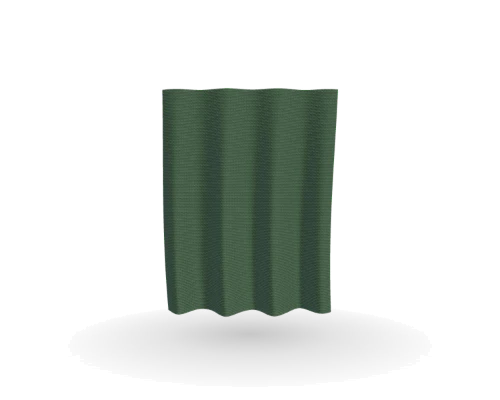
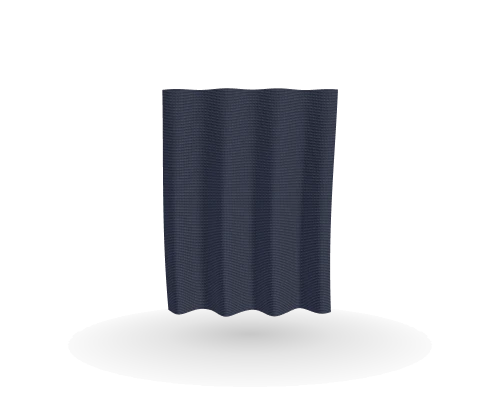
Bring the inner pages onto cotton; textiles cloth in indigo
- Textiles, About, Enquiry, Acknowledgement, Privacy and 404 heroes move from
  charcoal to undyed cotton. Hard-coded light-on-dark colours are overridden
  in dyehouse.css.
- Textiles: the 3D cloth and its poster are indigo (the textiles dye) instead
  of verdigris; the regions band below stays indigo.
- About: the closing call is indigo (the action colour); labels move from
  mono uppercase to the sans; step numbers and the founder badge stop
  borrowing madder, which belongs to handicrafts.

Changed region(s): [[0.3, 0.21, 0.69, 0.81]]

diff --git a/src/styles/dyehouse.css b/src/styles/dyehouse.css
@@ -416,3 +416,86 @@
 .wall__item:hover .wall__frame img { transform: none; }
 
 .pulse { animation: none; box-shadow: none; }
+
+/* ---- Inner pages: every hero is undyed cotton --------------------------- */
+/* The old heroes were charcoal with hard-coded light text. They now sit on
+   cotton like the homepage; the textiles page carries its indigo in the
+   regions band below the hero, not in the hero itself. */
+.page-hero,
+.enquiry-hero,
+.about-hero,
+.ack,
+.notfound {
+  background: var(--cotton);
+  color: var(--fg);
+}
+.page-hero::before, .enquiry-hero::before, .about-hero::before,
+.ack::before, .notfound::before { content: none; }
+
+.page-hero__title,
+.enquiry-hero__title,
+.about-hero__title,
+.ack__title,
+.notfound__title { color: var(--fg); }
+
+.page-hero__lede,
+.enquiry-hero__lede,
+.about-hero__lede,
+.notfound__lede { color: var(--fg-soft); }
+
+.page-hero--textile .page-hero__title,
+.page-hero--textile .page-hero__lede,
+.page-hero--textile .page-hero__inner .eyebrow { color: inherit; }
+.page-hero--textile .page-hero__lede { color: var(--fg-soft); }
+
+.page-hero__fallback { background: var(--dye-textiles); }
+
+.enquiry-hero__aside { border-top-color: var(--rule); }
+.enquiry-hero__aside-label { color: var(--fg-mute); }
+.enquiry-hero__mail { color: var(--indigo); border-bottom-color: currentColor; }
+.enquiry-hero__mail:hover { color: var(--fg); border-color: var(--fg); }
+
+.ack__notice {
+  border-left-color: var(--indigo);
+  background: var(--cotton-lit);
+  color: var(--fg-soft);
+}
+.ack__notice strong { color: var(--fg); }
+.ack__notice a { color: var(--indigo); }
+
+/* The closing call on About is an action, so it takes the action colour. */
+.about-cta { background: var(--indigo); color: #eef0f6; }
+.about-cta__title { color: #eef0f6; }
+.about-cta__lede { color: #c3cadb; }
+.about-cta .btn { --btn-bg: var(--cotton-lit); --btn-fg: var(--indigo); }
+.about-cta .btn::before { background: var(--cotton-deep); }
+.about-cta .btn:hover { color: var(--indigo); }
+
+/* Cards and briefs: no shadows, labels in the sans. */
+.brief, .brief *,
+.about-desk-card, .about-founder-card { box-shadow: none !important; }
+
+/* ---- About: labels in the sans, no borrowed category dyes --------------- */
+.about-desk-card__head,
+.about-desk-key,
+.about-founder-card__badge,
+.about-founder-card__role,
+.about-desk-val a {
+  font-family: var(--f-sans);
+  text-transform: none;
+  letter-spacing: 0;
+}
+.about-desk-card__head { font-size: var(--fs-small); font-weight: 500; color: var(--fg-mute); }
+.about-desk-key { font-size: var(--fs-small); font-weight: 500; color: var(--fg-mute); }
+.about-founder-card__badge {
+  color: var(--fg-mute);
+  background: none;
+  border: 0;
+  padding: 0;
+  font-size: var(--fs-small);
+  font-weight: 500;
+}
+.about-founder-card__role { color: var(--fg-mute); font-size: var(--fs-small); }
+/* Madder belongs to handicrafts; step numbers are plain ink numerals. */
+.about-process-card__num { color: var(--fg-mute); font-variant-numeric: tabular-nums; }
+.about-desk-card, .about-founder-card { box-shadow: none; }

diff --git a/src/pages/Textiles.tsx b/src/pages/Textiles.tsx
@@ -22,11 +22,11 @@ export default function Textiles() {
 
   return (
     <>
-      <section className="page-hero page-hero--textile page-hero--right on-dark grain">
+      <section className="page-hero page-hero--textile page-hero--right">
         <div className="page-hero__canvas">
           <Stage
             className="page-hero__stage"
-            label="Green woven cloth illustration"
+            label="Indigo woven cloth illustration"
             z={6.2}
             fov={36}
             fallback={<img className="cloth-poster" src="/posters/cloth-mobile.webp" srcSet="/posters/cloth-mobile-small.webp 500w, /posters/cloth-mobile.webp 1000w" sizes="(max-width:540px) 100vw, 500px" alt="" width={1000} height={800} />}
@@ -44,7 +44,7 @@ export default function Textiles() {
           <p className="eyebrow">Textiles &amp; fabrics</p>
           <h1 className="page-hero__title">Textiles and fabrics <em className="display-italic">from India</em>.</h1>
           <p className="page-hero__lede">Explore the regions where we’re beginning our sourcing work.</p>
-          <Link to="/textiles#textile-enquiry" className="btn btn--light">Start a textile enquiry <Arrow /></Link>
+          <Link to="/textiles#textile-enquiry" className="btn">Start a textile enquiry <Arrow /></Link>
         </div>
       </section>
 

diff --git a/src/dev/PosterCapture.tsx b/src/dev/PosterCapture.tsx
@@ -128,7 +128,7 @@ export default function PosterCapture() {
           ) : (
             <>
               <Studio />
-              {globe ? <GlobeScene compact={width/height < 1.5} /> : <><Lights intensity={1.02}/><Ground y={-1.35} scale={4} opacity={.4}/><group scale={.82}><ClothPanel palette="verdigris" width={2.15} height={2.7} folds={3.4} seed={3.8} threads={16}/></group></>}
+              {globe ? <GlobeScene compact={width/height < 1.5} /> : <><Lights intensity={1.02}/><Ground y={-1.35} scale={4} opacity={.4}/><group scale={.82}><ClothPanel palette="indigo" width={2.15} height={2.7} folds={3.4} seed={3.8} threads={16}/></group></>}
               <InspectModel motif={motif} params={params}/>
               <CaptureReady ready={complete}/>
             </>

diff --git a/src/pages/About.tsx b/src/pages/About.tsx
@@ -15,7 +15,7 @@ export default function About() {
 
   return (
     <div className="about-page">
-      <section className="about-hero on-dark grain">
+      <section className="about-hero">
         <div className="shell about-hero__inner">
           <p className="eyebrow eyebrow--bare">{ABOUT_BUSINESS.eyebrow}</p>
           <h1 className="about-hero__title">
@@ -85,7 +85,7 @@ export default function About() {
         </div>
       </section>
 
-      <section className="about-cta on-dark grain" id="enquiry">
+      <section className="about-cta on-indigo" id="enquiry">
         <div className="shell">
           <div className="about-cta__inner">
             <p className="eyebrow eyebrow--bare">Enquiry</p>

diff --git a/src/three/TextileHeroScene.tsx b/src/three/TextileHeroScene.tsx
@@ -31,7 +31,7 @@ function TextileObject({ aside = false }: { aside?: boolean }) {
           a drag adds to that angle instead of stopping it. */}
       <Draggable drift={compact ? 0.22 : 0.18} tilt={0.4} float={0.03} spin={compact ? 0 : Math.PI * 2 / 52} yawLimit={compact ? .65 : undefined}>
         <group scale={scale} position={[x, 0, 0]}>
-          <ClothPanel palette="verdigris" width={2.15} height={2.7} folds={3.4} seed={3.8} threads={16} />
+          <ClothPanel palette="indigo" width={2.15} height={2.7} folds={3.4} seed={3.8} threads={16} />
         </group>
       </Draggable>
     </>

diff --git a/src/pages/Acknowledgement.tsx b/src/pages/Acknowledgement.tsx
@@ -10,7 +10,7 @@ export default function Acknowledgement() {
   const role = ENQUIRY_FIELDS.role.options.find((option) => option.value === receipt?.role)
 
   return (
-    <section className="ack on-dark grain">
+    <section className="ack">
       <div className="shell ack__inner" style={{ gridTemplateColumns: '1fr' }}>
         <div className="ack__text">
           <p className="eyebrow">Enquiry acknowledgement</p>

diff --git a/src/pages/Privacy.tsx b/src/pages/Privacy.tsx
@@ -51,7 +51,7 @@ export default function Privacy() {
 
   return (
     <>
-      <section className="page-hero page-hero--plain on-dark grain">
+      <section className="page-hero page-hero--plain">
         <div className="shell page-hero__inner">
           <p className="eyebrow">Enquiry privacy</p>
           <h1 className="page-hero__title">

diff --git a/src/pages/NotFound.tsx b/src/pages/NotFound.tsx
@@ -3,7 +3,7 @@ import { Arrow } from '../components/Nav'
 
 export default function NotFound() {
   return (
-    <section className="notfound on-dark grain">
+    <section className="notfound">
       <div className="shell notfound__inner">
         <p className="eyebrow">404</p>
         <h1 className="notfound__title">

diff --git a/src/pages/Enquiry.tsx b/src/pages/Enquiry.tsx
@@ -15,7 +15,7 @@ export default function Enquiry() {
 
   return (
     <>
-      <section className="enquiry-hero on-dark grain">
+      <section className="enquiry-hero">
         <div className="shell">
           <div className="enquiry-hero__grid">
             <div>
